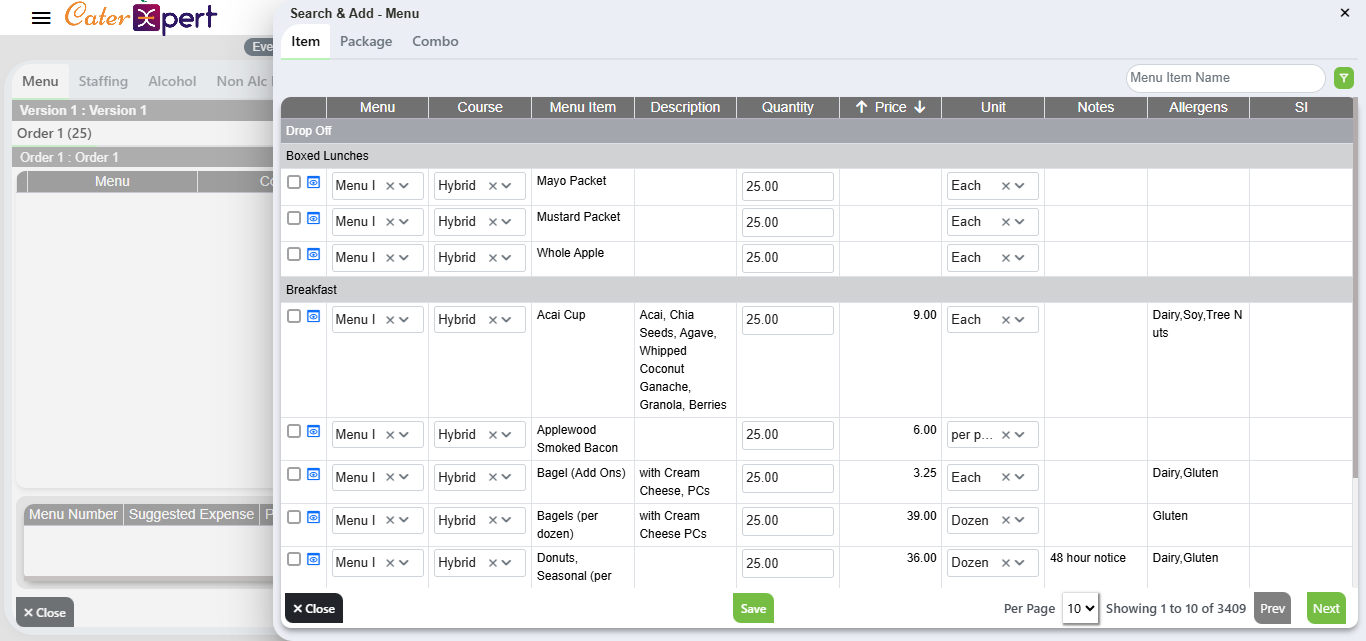
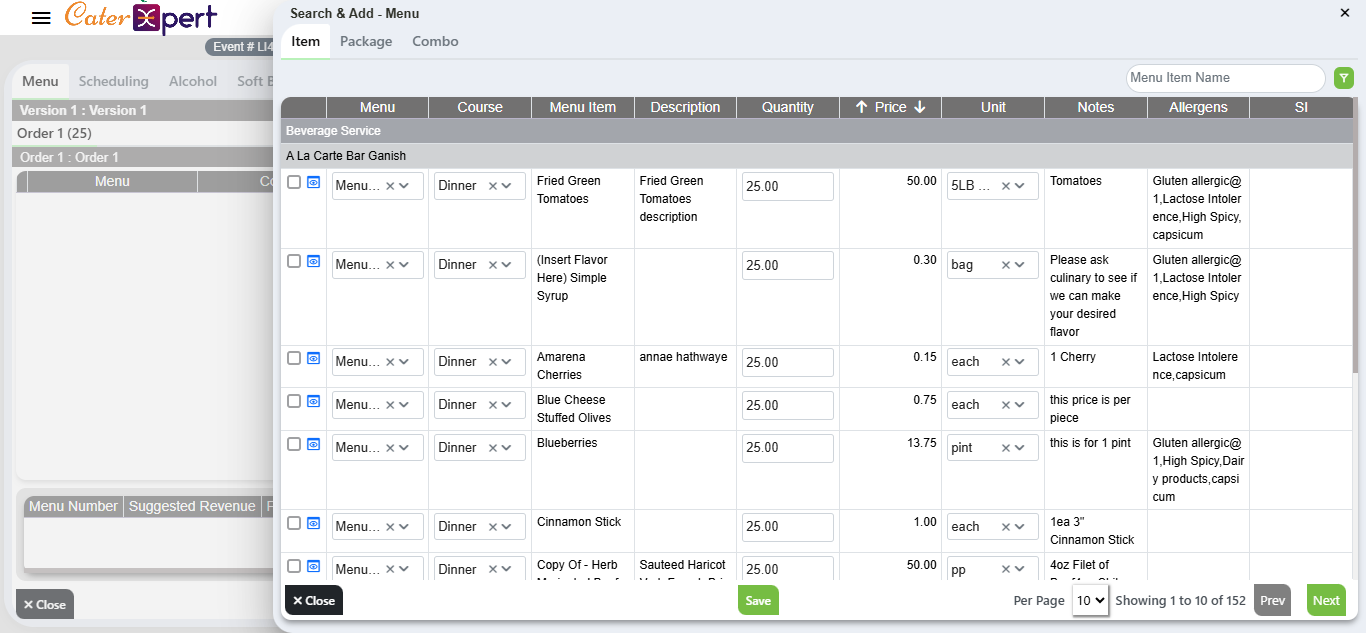
event is complated

diff --git a/Tests/Smoke.spec.ts b/Tests/Smoke.spec.ts
@@ -25,13 +25,13 @@ import { Scheduling } from '../pages/Scheduling';
 import { Accounting } from '../pages/Accounting';
 import { WareHouse } from '../pages/WareHouse';
 const customers = JsonUtil.readJson(
-    './Utilities/TestData/CustomerTpg.json'
+    './Utilities/TestData/Customer.json'
 );
 const contacts = JsonUtil.readJson(
     './Utilities/TestData/Contact.json'
 );
 const Events = JsonUtil.readJson(
-    './Utilities/TestData/EventTpg.json'
+    './Utilities/TestData/Event.json'
 );
 
 const ServiceStatus= JsonUtil.readJson(
@@ -175,8 +175,8 @@ for (let i = 0; i < customers.length; i++) {
 
 
                 await event.createbtn();
-             //  await commonActions.Constraintspopup();
-                await event.Constraints()
+           
+                await event.CustomerTaxExamptPopUp()
 
                 eventNumber = await event.getCreatedEventNumber();
 
@@ -195,7 +195,7 @@ for (let i = 0; i < customers.length; i++) {
 
             });
              await test.step("Edit/Update Event", async () => {
-                await page.pause();
+                
                 await services.EditEvent();
                  await commonActions.closeCommonPopup();
                 

diff --git a/Utilities/MandatoryFieldsEventUtil.ts b/Utilities/MandatoryFieldsEventUtil.ts
@@ -123,7 +123,7 @@ else {
     for (let i = 0; i < count; i++) {
 
         const label = mandatoryLabels.nth(i);
-
+console.log(label)
         const fieldName =
             (await label.textContent())
                 ?.replace("*", "")
@@ -212,7 +212,7 @@ private async findControlContainer(label: Locator): Promise<Locator> {
 
     const fieldName = await label.textContent();
 
-    
+    console.log(fieldName)
 
     const parentDivContainer = label.locator(
         "xpath=parent::div/following-sibling::div[1]"
@@ -255,7 +255,7 @@ async identifyControlType(control: Locator): Promise<string> {
 
     return "UNKNOWN";
 }
-
+//259 to 280
 async handleTextbox(controlContainer: Locator, value: string) {
 
     
@@ -266,10 +266,8 @@ async handleTextbox(controlContainer: Locator, value: string) {
 //already data fill to the field 
  const currentValue = (await textbox.inputValue()).trim();
 
-    if (currentValue !== "") {
-
+    if (currentValue !== "" && currentValue !== "0") {
         console.log("Textbox already has value:", currentValue);
-
         return;
     }
    //already data fill to the field just skip the field

diff --git a/Tests/Login.spec.ts b/Tests/Login.spec.ts
@@ -97,7 +97,7 @@ test('authenticate', async ({ page }) => {
     
     
         const EventData = JsonUtil.readJson(
-            './Utilities/TestData/EventTpg.json'
+            './Utilities/TestData/Event.json'
         )[0];
     
     
@@ -115,6 +115,7 @@ test('authenticate', async ({ page }) => {
     
         //await page.pause();
         await event.createbtn();
+          await event.CustomerTaxExamptPopUp()
     
         const eventNumber = await event.getCreatedEventNumber();
     
@@ -129,10 +130,16 @@ test('authenticate', async ({ page }) => {
 
                 await approval.Approvals(eventNumber);
 
-          
+          await test.step("Edit/Update Event", async () => {
+                await page.pause();
+                await services.EditEvent();
+                 await commonActions.closeCommonPopup();
+                
+
+            });
 
          //Menu Service
-        await test.step("MEnu", async () => {
+        await test.step("Menu", async () => {
             await services.openMenuService();
     
     

diff --git a/pages/Event.ts b/pages/Event.ts
@@ -71,6 +71,26 @@ async CreateEvent() {
      await this.clickFilter.fill('3410');
      
     }
+    async CustomerTaxExamptPopUp() {
+
+    const YesButton = this.page.getByRole("button", {
+        name: "Yes",
+        exact: true
+    });
+
+    // Check whether Save is visible
+    if (await YesButton.isVisible()) {
+
+        await YesButton.click();
+
+        console.log("Customer Tax Exempt Popup displayed. Save clicked.");
+
+    } else {
+
+        console.log("Customer Tax Exempt Popup not displayed. Continuing...");
+
+    }
+}
         async Constraints() {
 
      const eventConstraints = this.page.getByText("Event Constraints");

diff --git a/Utilities/Test.Config.ts b/Utilities/Test.Config.ts
@@ -3,7 +3,7 @@ import * as dotenv from 'dotenv';
 dotenv.config();
     
 
-const configNumber = process.env.ACTIVE_CONFIG || '3';
+const configNumber = process.env.ACTIVE_CONFIG || '2';
 
 export class TestConfig {
 
